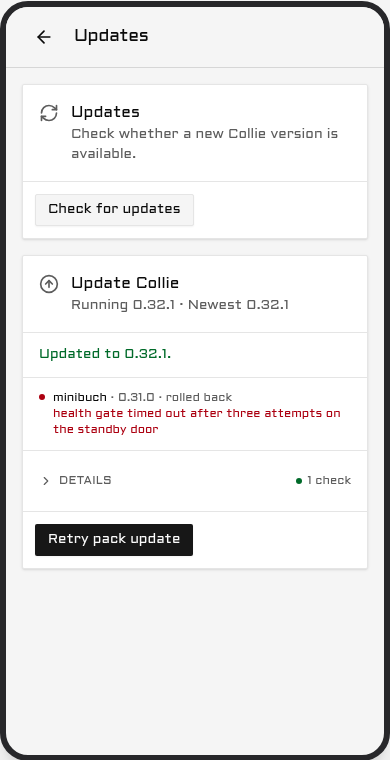
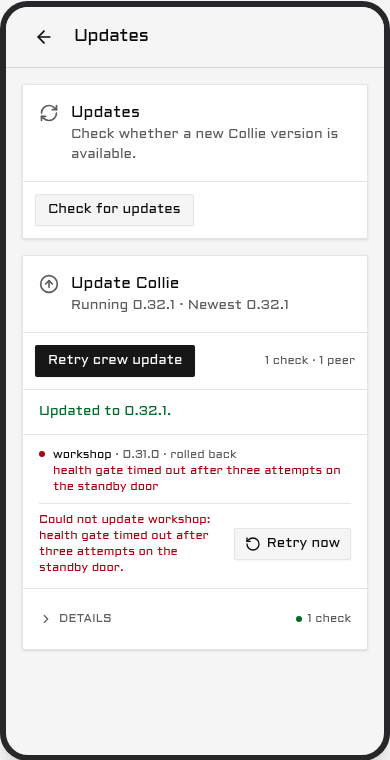
docs: install and update the PWA itself, not just the host
Adds the two screenshots docs/install.md never had (the Install card
Chrome/Edge offer, and the share-sheet hint iOS shows instead) and
regenerates the docs/upgrading.md Updates screenshots, which were still
showing pre-crew-rename wording ("pack") and, on one rolled-back-peer
image, a real Tailscale hostname. scripts/docs-screens.sh generated all
of it and carried both bugs; fixed there.

diff --git a/docs/install.md b/docs/install.md
@@ -399,7 +399,18 @@ with `bin/collie qr`). Your client must be on the same tailnet.
    Settings → Paired devices on the client with the code filled in, or open Settings → Paired
    devices on the client and type the code
    ([Pair a device](security.md#pair-a-device--the-write-credential)).
-2. **Install PWA**: Tap *Add to Home Screen* in Safari (iOS) or Chrome (Android).
+2. **Install the app**: Tap **Install** in Settings if the browser offers it, or use the share
+   sheet on iOS/iPadOS.
+
+Chrome and Edge, on Android and on desktop, offer an install button the moment they decide the app
+is installable, and Collie surfaces that offer as an **Install** card at the top of Settings.
+
+![The Install card at the top of Settings, with the button Chrome and Edge offer.](images/updates/settings-install-offered.png)
+
+Safari on iOS and iPadOS never makes that offer — installing there always goes through the share
+sheet — so the same card shows those steps instead, exactly while they apply.
+
+![The same card on iOS or iPadOS: installing goes through the share sheet instead.](images/updates/settings-install-ios-hint.png)
 
 Installing the PWA requires HTTPS; `COLLIE_SERVE_MODE=http` disables service workers, so the phone
 can only use the browser tab in that mode.

diff --git a/CHANGELOG.md b/CHANGELOG.md
@@ -39,6 +39,17 @@ PATH. Details and rollback: [`docs/upgrading.md`](./docs/upgrading.md) → *Upgr
   dead re-export of the unit-test fixtures was also dropped from this file's public surface,
   since it carried the same two names and nothing read it.
 
+### Docs
+
+- **The docs show how to install and update the PWA itself, not just the host.**
+  `docs/install.md` gains two screenshots of the Install card at the top of Settings — the
+  button Chrome and Edge offer, and the share-sheet hint iOS shows instead — since neither
+  existed anywhere before. The Updates screenshots in `docs/upgrading.md` are regenerated too:
+  two still read "Update pack to" and "Retry pack update" from before the crew rename, and one
+  named a real Tailscale hostname (`minibuch`) in its rolled-back-peer example.
+  `scripts/docs-screens.sh`, which generates this whole set, carried both and is what's actually
+  fixed; the images are just its output.
+
 ## [1.8.0] - 2026-09-09
 
 ### Added

diff --git a/docs/upgrading.md b/docs/upgrading.md
@@ -151,7 +151,7 @@ There is no per-peer button and no second confirmation prompt. For details, the 
 and the one case the phone cannot fix, see
 [Updating the rest of the crew](#updating-the-rest-of-the-crew).
 
-![The Updates page on a lead, with the preflight per member and one button for the crew.](images/updates/updates-page-pack-available.png)
+![The Updates page on a lead, with the preflight per member and one button for the crew.](images/updates/updates-page-crew-available.png)
 
 A band across the top of every screen carries the run: the release on offer, then
 `Starting update…`, `Updating to <version>`, `Updated to <version>. Tap to reload.`, and finally
